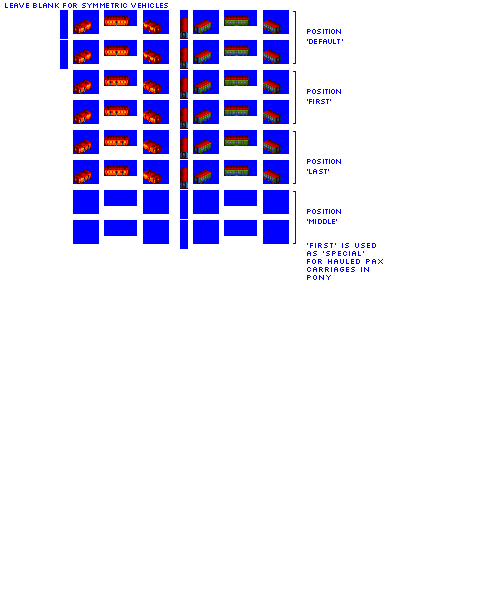
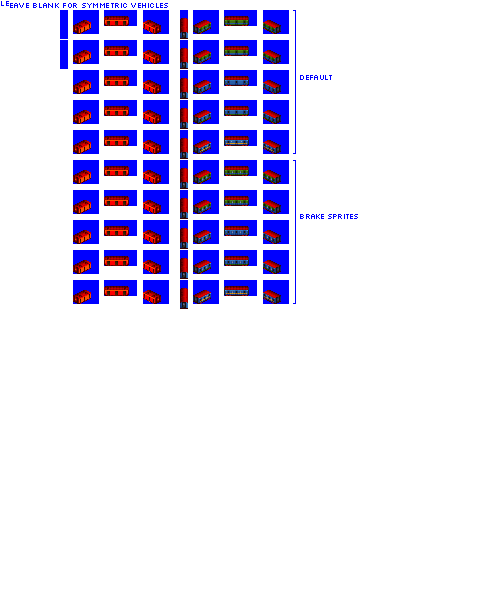
Change: 6/8 NG mail cars

diff --git a/src/vehicles/mail_cars.py b/src/vehicles/mail_cars.py
@@ -27,6 +27,17 @@ def main():
 
     consist.add_unit(type=ExpressMailCar, chassis="4_axle_ng_16px")
 
+    consist = MailCarConsist(
+        roster_id="pony",
+        base_numeric_id=12360,
+        gen=3,
+        subtype="B",
+        base_track_type_name="NG",
+        sprites_complete=False,
+    )
+
+    consist.add_unit(type=ExpressMailCar, chassis="4_axle_ng_24px")
+
     """ # restore in next version
     consist = MailCarConsist(
         roster_id="pony",
